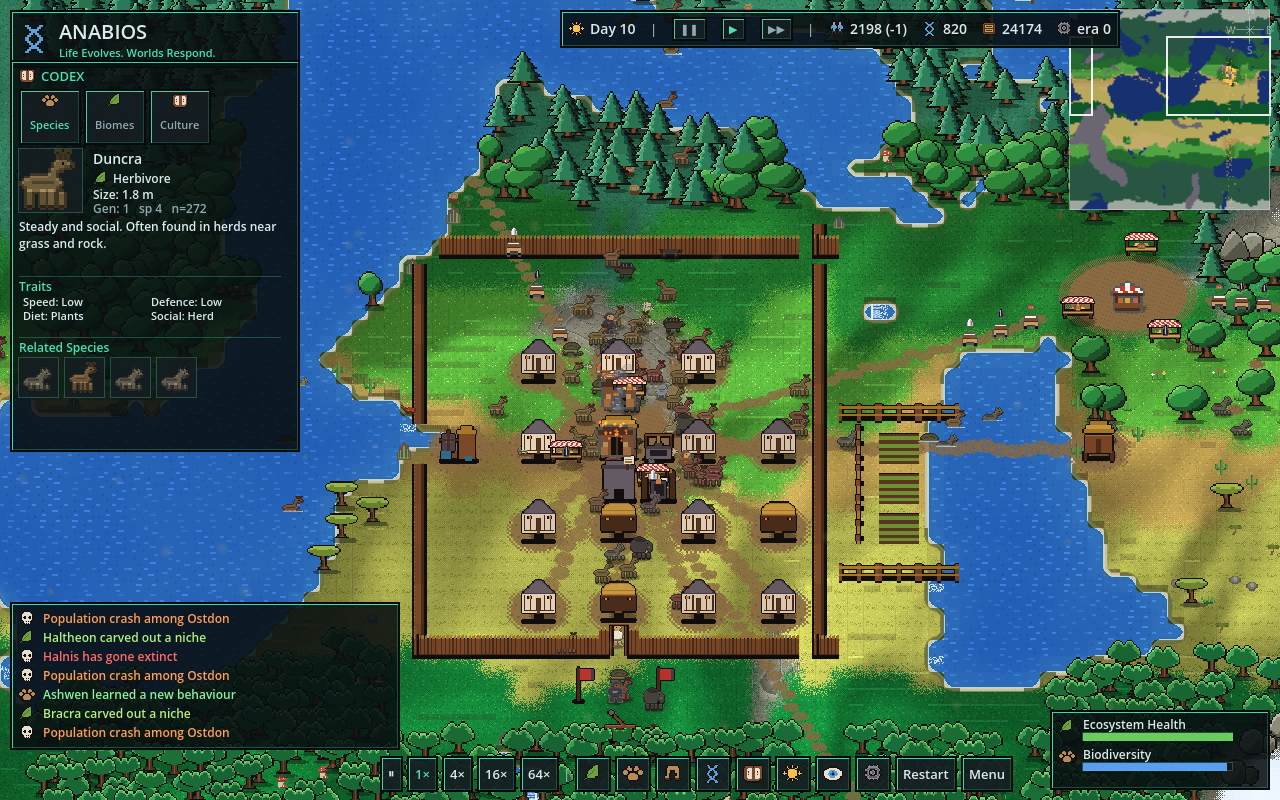
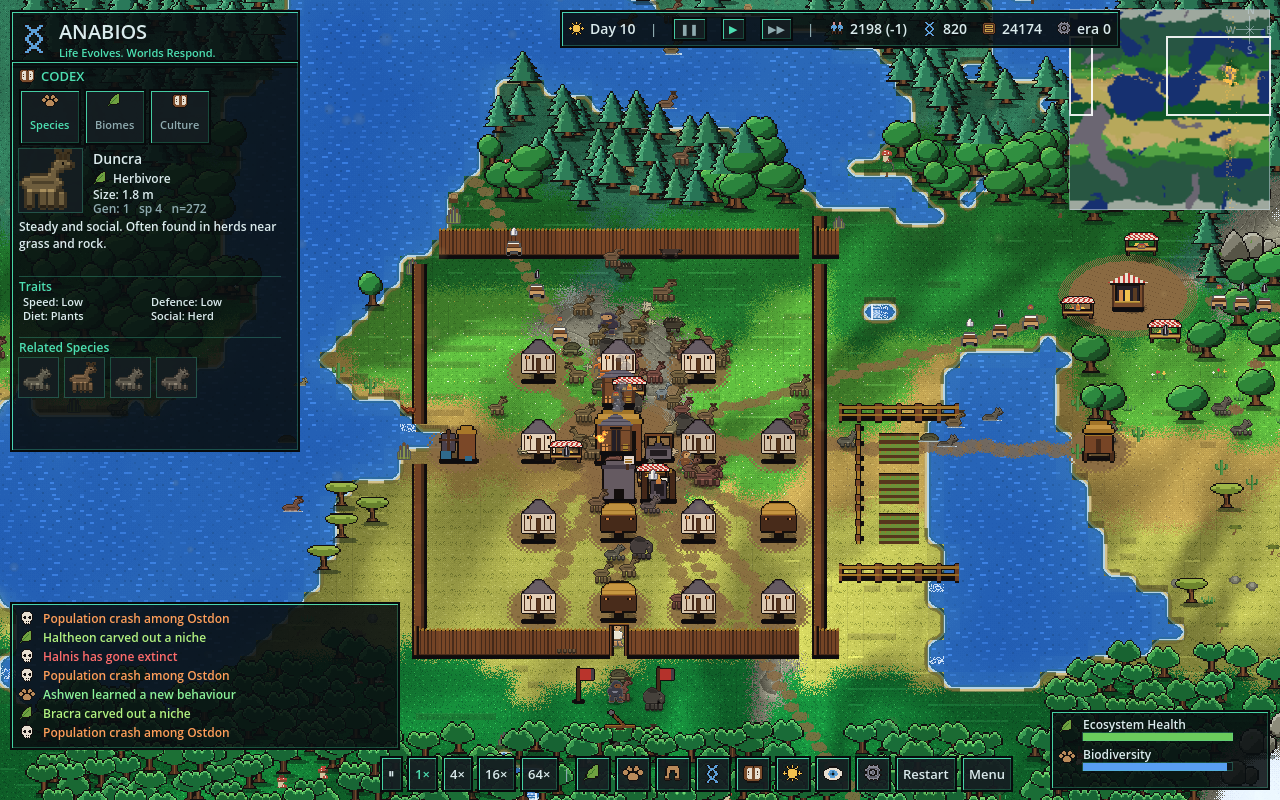
viewer: the hall a notch bigger, the palisade taller than a figure
The boards' central building dominates its village: the communal hall
draws at 1.25 times the dwelling tile (kind_scale). The palisade runs
and corner join the tall kinds with a six-row log band, so the wall
stands taller than the figures behind it. Gallery: the fortified still.

Claude-Session: https://claude.ai/code/session_019kbTtZKC2VJBPY6SALU64h

diff --git a/gallery/README.md b/gallery/README.md
@@ -43,7 +43,7 @@ pins an agent in the unit card.
 | File | Scenario / tick / zoom | What you're seeing |
 |---|---|---|
 | scale-settlement-t891-village-4x.png | `settlement` t891 4× (default camera, `ANABIOS_INSPECT=1`) | A camp on packed-earth yards with paths to the hearth, tents and walled hide yurts spaced a hut-width apart on 20-unit tiles, the crowd capped to one figure per 17 units at 4× (12 at 2×, staggered rows), a market square with awning stalls beside it, pixel-puff hearth smoke, the outcrop east of the camp as warm stone, the unit card. |
-| scale-settlement-t891-fortified-2x.png | `settlement` t891 2× (`ANABIOS_VILLAGE_ERA=2 ANABIOS_VILLAGE_FLAGS=123`) | The same camp forced into its fortified era: timber-frame houses with slate roofs over a front wall about a figure high (the 32×44 tall variants, roughly two figures tall on a 20-unit tile), a log palisade hugging them, a gate with banners and a catapult to the south, a watchtower, fenced fields outside the wall, the forest standing back from the clearing. |
+| scale-settlement-t891-fortified-2x.png | `settlement` t891 2× (`ANABIOS_VILLAGE_ERA=2 ANABIOS_VILLAGE_FLAGS=123`) | The same camp forced into its fortified era: timber-frame houses with slate roofs over a front wall about a figure high (the 32×44 tall variants, roughly two figures tall on a 20-unit tile), the communal hall a quarter bigger than the houses, a log palisade taller than a figure hugging them, a gate with banners and a catapult to the south, a watchtower, fenced fields outside the wall, the forest standing back from the clearing. |
 | scale-settlement-t891-raided-4x.png | `settlement` t891 4× (`ANABIOS_VILLAGE_ERA=1 ANABIOS_VILLAGE_FLAGS=127`) | The same camp as a raided thatch village: thatch huts with walled fronts, burnt ruins with pixel flames and black smoke over them, the palisade, the fenced field. |
 | scale-settlement-t3120-camp-4x.png | `settlement` t3120 4× | The same camp later: hearth smoke, herds at the square, codex species page. |
 | scale-settlement-t1020-codex-species-2x.png | `settlement` t1020 2× (`ANABIOS_CODEX_TAB=1`) | The settlement peninsula: flat lake water with block ripples, dithered biome borders, mixed oak silhouettes, olive savanna, resting herds with their heads up, the HUD. |
